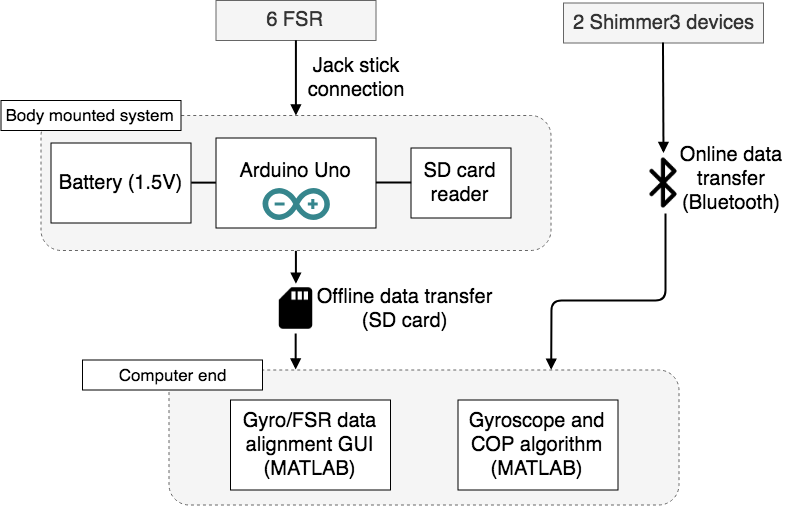
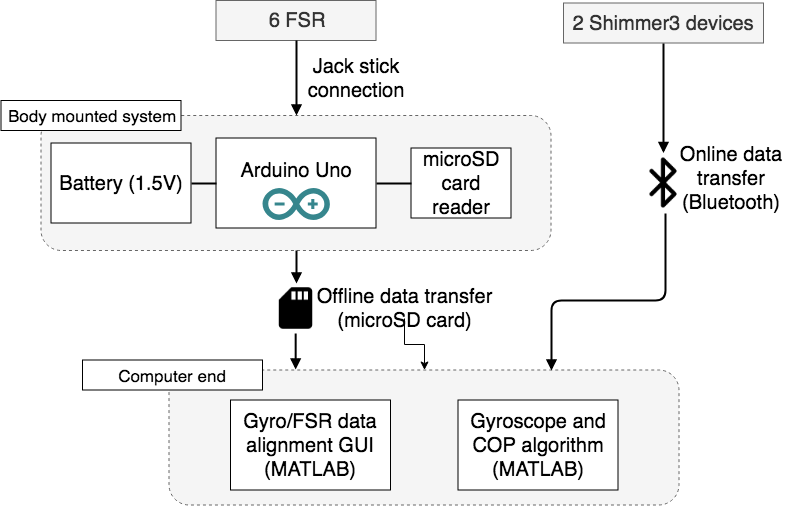
new methods intro and systemTest section

diff --git a/contents/bMethods/gDataAcquisition.tex b/contents/bMethods/gDataAcquisition.tex
@@ -1,8 +1,8 @@
 \section{Data Acquisition}
 
-During data acquisition the subjects will be wearing the instruments presented earlier in \secref{methods:instrumentation}. The Shimmer3 device will be placed lateral under the knees of the subject.
+During data acquisition the subjects will be wearing the instruments presented earlier in \secref{methods:instrumentation}. The Shimmer3 devices will be placed, one on each leg, lateral distal to the knees of the subject.
 
-The FSRs will be placed on the sole of each foot of the subject. One FSR 406 is placed under the heel and two FSR 402 sensors are placed under the front of the foot at the lateral and medial part of the anterior eminence of the sole. The Arduino-setup will be placed at the lower back of the subject and handle data collection. Collected data will be stored on an SD card for later offline analysis with MATLAB. An illustration of device placement on a subject can be seen in \figref{fig:bodySysSetup}.
+The FSRs will be placed on the sole of each foot of the subject. One FSR 406 is placed at the lateral eminence of the sole. Of the two FSR 402 sensors, one will be placed under the heel and the other medial eminence of the sole. The Arduino-setup will be placed at the lower back of the subject and handle data collection. Collected data will be stored on an microSD card for offline analysis with MATLAB. An illustration of device placement on a subject can be seen in \figref{fig:bodySysSetup}.
 
 %% SENSOR BAIT ALERT:
 %jeg har skrevet at vi placere en FSR 406 (den store firkant sensor) under hælen. den skal sidde "bag" lilletåen.
@@ -14,7 +14,23 @@ The FSRs will be placed on the sole of each foot of the subject. One FSR 406 is 
 	\label{fig:bodySysSetup}  %<--remember LABEL!
 \end{figure}
 
-Data acquisition from both the FSR sensors and the Shimmer3 devices are set to have a sample frequency of 100Hz. The sample rate is decided to be the same so it is possible to match the two data streams to each other, so it is possible to compare measured pressure forces under the feet while matching it to movement of the body. A simple graphical user interface (GUI) have been developed to match the data. This manual approach is favourable for this project as it were determined that it would be more time consuming to develop an algorithm to automatically match data streams. It would also go beyond the scope for the project.
+Data acquisition from both the FSR sensors and the Shimmer3 devices are set to have a sample frequency of 100Hz. This sample rate is used by others performing similar measurements \cite{Verkerke2005, Byun2016, Sherwani2016}. Additionally, the sample rate is decided to be the same so it is possible to match the two data streams to each other, so it is possible to compare measured pressure forces under the feet while matching it to movement of the body. A simple graphical user interface (GUI) have been developed to match the data. This manual approach is favourable for this project as it were determined that it would be more time consuming to develop an algorithm to automatically match data streams. It would also go beyond the scope for the project.
+
+Data from the Shimmer3 devices are send and saved directly to MATLAB via Bluetooth and stored in $nx3$ matrices, one for each leg.
+
+For saving acquired data from the FSR sensors an Arduino program have been written to arrange measurements into an $nx6$ matrix. Each column corresponds with the channel input for each FSR. See \figref{fig:FSRNumbering} for the numbering of FSRs and channels. Rows in the matrix are time steps. The data is saved to a $.txt$-file on the microSD card. 
+
+\begin{figure}[H]
+	\includegraphics[width=.6\textwidth]{figures/FSRNumbering}
+	\caption{The numbering of each FSR sensor according to the channel they are recorded to in the Arduino program.}
+	\label{fig:FSRNumbering}  %<--remember LABEL!
+\end{figure}
+
+maybe something on filtering if we end up doing that
+
+MATLAB alignment GUI description
+
+MATLAB COP code description
 
 
 
@@ -26,15 +42,6 @@ Data acquisition from the Shimmer devices are handled by Bluetooth between the S
 
 
 
-
-
-we record stuff with the shimmers bluetooth directly to matlab and some jacksticks from the FSR's and save force data to an sd card which we put in matlab and organize it all into one matrix where we can do some math on. 
-
 so far there might not be any filtering of any of the data
-
-
-
-
-
 
 

diff --git a/contents/bMethods/bNEWSystemTest.tex b/contents/bMethods/bNEWSystemTest.tex
@@ -1,23 +1,22 @@
 %bNEWSystemTest
 %test
 \section{System test}
+This section covers the test of the system, prior to conducting the experiment for the project. 
 
-
-\subsection{Gyroscope and/or Accelerometer test}
+\subsection{Method of test for gyroscopes}
 The authors assess that a test of the gyroscopes is not necessary, as the Shimmer3 devices will be calibrated using the built in function of Shimmer Sensing’s program, Consensys, to ensure the devices are working as expected.
 
 %til test af gyro/accel kan vi gøre som paul foreslog og filme personen imens de drejer rundt eller noget, hvor vi kan synkronisere film med gyro/accel målinger og se at der sker udsving på samme tidspunkt som personen drejer/bevæger sig. Det kan self ikke være med i rapporten men vi kan vise det til eksamen. 
 
 
-
-
-\subsection{Test of Force Sensitive Resistors}
+\subsection{Method of test for Force Sensitive Resistors}
 The FSR will be tested by placing a 1-2 kg weight covering a surface area of “insert cm2” on the 402 sensors and “insert cm2” on the 406 sensors and measuring the resulting resistance with a “insert voltmeter name here”. This is done to ensure that none of the sensors are either broken or deviate compared to the mean result of the test. 
 
 %retfærdigøre at vi brugere sensore der "kun" kan måle så lidt tryk til at måle under folk som vejer +50 kg. Sikkert noget med at simon har sat modstande i systemet som øger sensorernes måling af tryk påvirkning. 
 
+\subsection{Test  results for Force Sensitive Resistors}
 
-
+Everything was *hopefully*fine. 
 
 
 
@@ -38,6 +37,9 @@ The system as a whole will be tested with a walk sequence. The sequence will inv
 \end{itemize}
 %Test walk sequence: Wait 3 sec. light jump. wait 1 sec. walk 5 steps. 180 turn. walk 5 steps. 90 turn right. wait. 90 turn right. wait. quick 180. wait quick 180. wait 1. light jump. wait 3 sec. 
 Following the system test the acquired data will be qualitatively evaluated to ensure everything works as intended. 
+
+\subsection{Test results for System test}
+Everything was fine. 
 
 %sensor bait text fra DataAcquisition.tex
 A problem occurred with the FSR 406 placed under the heel of the subject during the system test . When weight was applied to the sensor it would measure the highest possible force the sensor can measure, and no useful data could be collected from the sensor. It was evaluated why this happened and discovered that because the FSR 406 covers a larger area and were placed at the heel it would be affected by more force when a subject stood on it. As the distribution of pressure is higher at the heel compared to anywhere else under the foot while standing, it makes sense that the FSR 406 would be overloaded \cite{Hessert2005}. To account for this, the FSR 402 placed at the lateral side of the feet where switched with the FSR 406 at the heel. As the FSR 402 covers a smaller area they would not be overloaded as easily as the FSR 406. As a result the FSR 406 is now placed at the lateral side of the eminence of the sole, and one FSR 402 is placed at the heel. The new placement of FSR sensors can be seen in \figref{fig:soleSensorPlacement}.

diff --git a/contents/bMethods/fInstrumentation.tex b/contents/bMethods/fInstrumentation.tex
@@ -12,7 +12,7 @@ The Shimmer3 device has dimensions of 51mm x 34mm x 41mm and is easy to place ne
 %SHIMMER3 DEVICE BODY POSITION PLACEMENT: One device will be mounted on the head of the subject, one at the chest and one at the waist. 
 
 The force sensors used in this project are Force Sensing Resistors (FSR) from Interlink Electronics, models 402 and 406. The FSR 402 is a 13mm diameter circle single-zone resistor capable of force detection in a range from 20g to 2kg. The FSR 406 is similar but covers a larger square area of 38mm x 38mm. \cite{IE400} A total of six sensors will be used with three sensors under each foot. 
-An Arduino Uno will be used for handling recording and saving the data from the FSRs. The Arduino Uno is mounted on a breadboard, and connected to six jack stick plugs, an SD-card reader and batteries for power supply (see \figref{fig:heleSystemSetup}). The FSRs are connected to the Arduino through 3.5mm jack sticks. Data collection is initiated by pressing a designated record button. When recording is active a LED on the board will light up. Data from the FSRs will be stored on the SD card and be processed offline with MATLAB.
+An Arduino Uno will be used for handling recording and saving the data from the FSRs. The Arduino Uno is mounted on a breadboard, and connected to six jack stick plugs, an microSD card reader and batteries for power supply (see \figref{fig:heleSystemSetup}). The FSRs are connected to the Arduino through 3.5mm jack sticks. Data collection is initiated by pressing a designated record button. When recording is active a LED on the board will light up. Data from the FSRs will be stored on a microSD card and be processed offline with MATLAB.
 %[foot regions: https://www.sciencephoto.com/media/581111/view/anatomy-regions-of-the-right-foot]
 %(https://www.digikey.ca/product-detail/en/interlink-electronics/30-73258/1027-1002-ND/2476470) big square sensor
 %(https://www.digikey.ca/product-detail/en/interlink-electronics/30-81794/1027-1001-ND/2476468) small round sensor
@@ -23,7 +23,7 @@ An Arduino Uno will be used for handling recording and saving the data from the 
 %	\label{fig:circuitBoardSetup}  %<--remember LABEL!
 %\end{figure}
 
-The system setup as a whole for both the gyroscope and FSR parts can be seen illustrated as a block diagram on \figref{fig:heleSystemSetup}.
+The system setup as a whole for both the gyroscope and FSR parts can be seen illustrated in a block diagram on \figref{fig:heleSystemSetup}.
 
 \begin{figure}[H]
 	\includegraphics[width=.6\textwidth]{figures/heleSystemSetup}

diff --git a/contents/bMethods/eExperimentProtocol.tex b/contents/bMethods/eExperimentProtocol.tex
@@ -12,7 +12,7 @@ The experiment aims to measure the ground reaction forces during the performance
 
 \subsubsection{Initial part}
 \begin{enumerate}
-\item The person responsible for the test will mount the force sensors underneath the feet of the subject according to the labeling on the sensors. These sensors will be placed as following on both feet:
+\item The person responsible for the test will mount the force sensors underneath the feet of the subject according to the labelling on the sensors. These sensors will be placed as following on both feet:
 \begin{itemize}
 $\bullet$ One FSR406 sensor on the lateral eminence of the sole \\
 $\bullet$ One FSR402 sensor on the medial eminence of the sole \\
